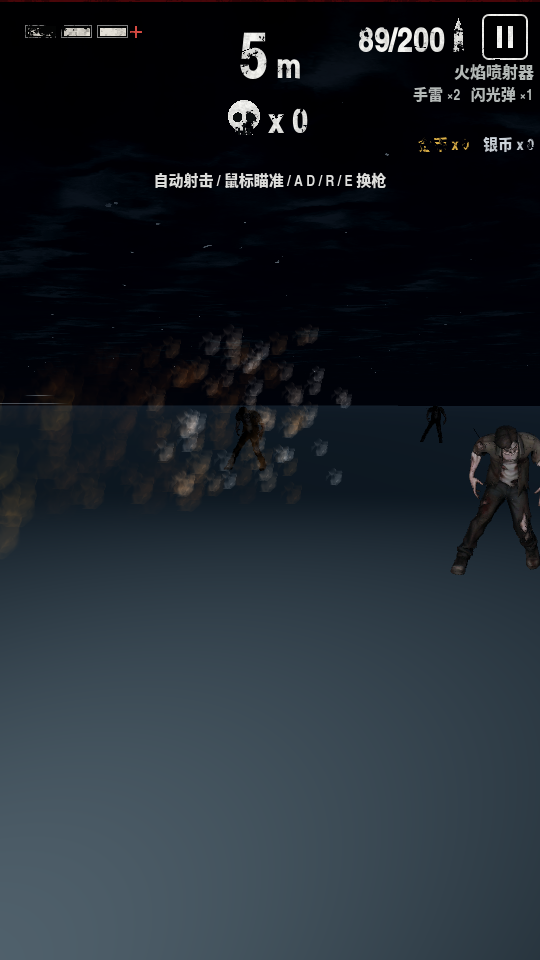
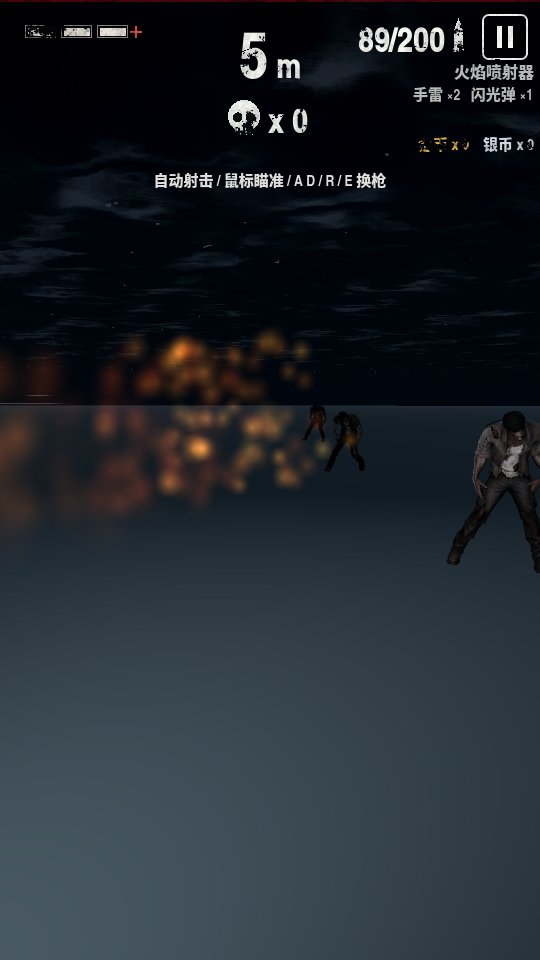
feat(flame): heat gradient white at the nozzle through yellow to orange; street props move out of the building shell to the pavement

diff --git a/tools/flame_lighter_props.py b/tools/flame_lighter_props.py
@@ -1,0 +1,35 @@
+import io
+
+ROOT = r"C:\Users\user\Documents\kimi\tasks\2026-11-06\12-50-12-52283f1e\df-backup"
+
+# 1) street props: both passes were placing them 11 m out, inside the building shell
+p = ROOT + r"\scripts\main_3d.gd"
+t = io.open(p, encoding="utf-8").read()
+old = "\tvar x: float = side * 11.0"
+new = ("\t# 8.85 m is the pavement line; 11 m sits inside the building shell, so props placed there\n"
+       "\t# were invisible.\n"
+       "\tvar x: float = side * 8.85")
+n = t.count(old)
+t = t.replace(old, new)
+io.open(p, "w", encoding="utf-8", newline="\n").write(t)
+print("prop line patched in", n, "places")
+
+# 2) lighter orange flame
+p2 = ROOT + r"\scripts\player_3d.gd"
+h = io.open(p2, encoding="utf-8").read()
+
+pairs = (
+    ('\tramp.set_color(0, Color(1.0, 0.86, 0.45, 0.0))', '\tramp.set_color(0, Color(1.0, 0.95, 0.70, 0.0))'),
+    ('\tramp.add_point(0.06, Color(1.0, 0.82, 0.38, 0.85))', '\tramp.add_point(0.06, Color(1.0, 0.90, 0.55, 0.90))'),
+    ('\tramp.add_point(0.22, Color(1.0, 0.70, 0.20, 0.82))', '\tramp.add_point(0.22, Color(1.0, 0.78, 0.35, 0.85))'),
+    ('\tramp.add_point(0.45, Color(1.0, 0.62, 0.16, 0.70))', '\tramp.add_point(0.45, Color(1.0, 0.66, 0.22, 0.65))'),
+    ('\tramp.add_point(0.72, Color(1.0, 0.46, 0.12, 0.40))', '\tramp.add_point(0.72, Color(0.95, 0.55, 0.16, 0.35))'),
+    ('\tramp.set_color(3, Color(0.55, 0.24, 0.06, 0.0))', '\tramp.set_color(3, Color(0.80, 0.42, 0.10, 0.0))'),
+)
+changed = 0
+for old, new in pairs:
+    if h.count(old) == 1:
+        h = h.replace(old, new, 1)
+        changed += 1
+io.open(p2, "w", encoding="utf-8", newline="\n").write(h)
+print("flame ramp lightened:", changed, "stops")

diff --git a/tools/flame_heat_ramp.py b/tools/flame_heat_ramp.py
@@ -1,0 +1,28 @@
+import io
+
+p = r"C:\Users\user\Documents\kimi\tasks\2026-11-06\12-50-12-52283f1e\df-backup\scripts\player_3d.gd"
+lines = io.open(p, encoding="utf-8").read().split("\n")
+
+# t=0 is the frame the particle is born at the nozzle, so the hottest white belongs there and the
+# colour cools white -> yellow -> orange as the flame travels.
+wanted = [
+    "\tramp.set_color(0, Color(1.0, 1.0, 1.0, 0.0))",
+    "\tramp.add_point(0.05, Color(1.0, 1.0, 0.92, 0.95))",
+    "\tramp.add_point(0.20, Color(1.0, 0.93, 0.50, 0.90))",
+    "\tramp.add_point(0.45, Color(1.0, 0.72, 0.22, 0.80))",
+    "\tramp.add_point(0.72, Color(1.0, 0.50, 0.10, 0.45))",
+    "\tramp.set_color(3, Color(0.85, 0.34, 0.06, 0.0))",
+]
+
+idx = 0
+for i, line in enumerate(lines):
+    if line.startswith("\tramp.set_color(0,") or line.startswith("\tramp.add_point(0.05,") \
+       or line.startswith("\tramp.add_point(0.06,") or line.startswith("\tramp.add_point(0.20,") \
+       or line.startswith("\tramp.add_point(0.22,") or line.startswith("\tramp.add_point(0.45,") \
+       or line.startswith("\tramp.add_point(0.72,") or line.startswith("\tramp.set_color(3,"):
+        if idx < len(wanted):
+            lines[i] = wanted[idx]
+            idx += 1
+
+io.open(p, "w", encoding="utf-8", newline="\n").write("\n".join(lines))
+print("ramp stops written:", idx)

diff --git a/tools/prop_line_patch.py b/tools/prop_line_patch.py
@@ -1,0 +1,13 @@
+import io
+
+p = r"C:\Users\user\Documents\kimi\tasks\2026-11-06\12-50-12-52283f1e\df-backup\scripts\main_3d.gd"
+t = io.open(p, encoding="utf-8").read()
+
+old = "\tvar x: float = side * 11.0"
+new = ("\t# The pavement line is 8.8 m from the centre; 11 m sits inside the building shell, which is\n"
+       "\t# why benches and bins placed here never showed up.\n"
+       "\tvar x: float = side * 8.85")
+assert t.count(old) == 1, t.count(old)
+t = t.replace(old, new, 1)
+io.open(p, "w", encoding="utf-8", newline="\n").write(t)
+print("street prop line moved from x=11 to the pavement at 8.85")
